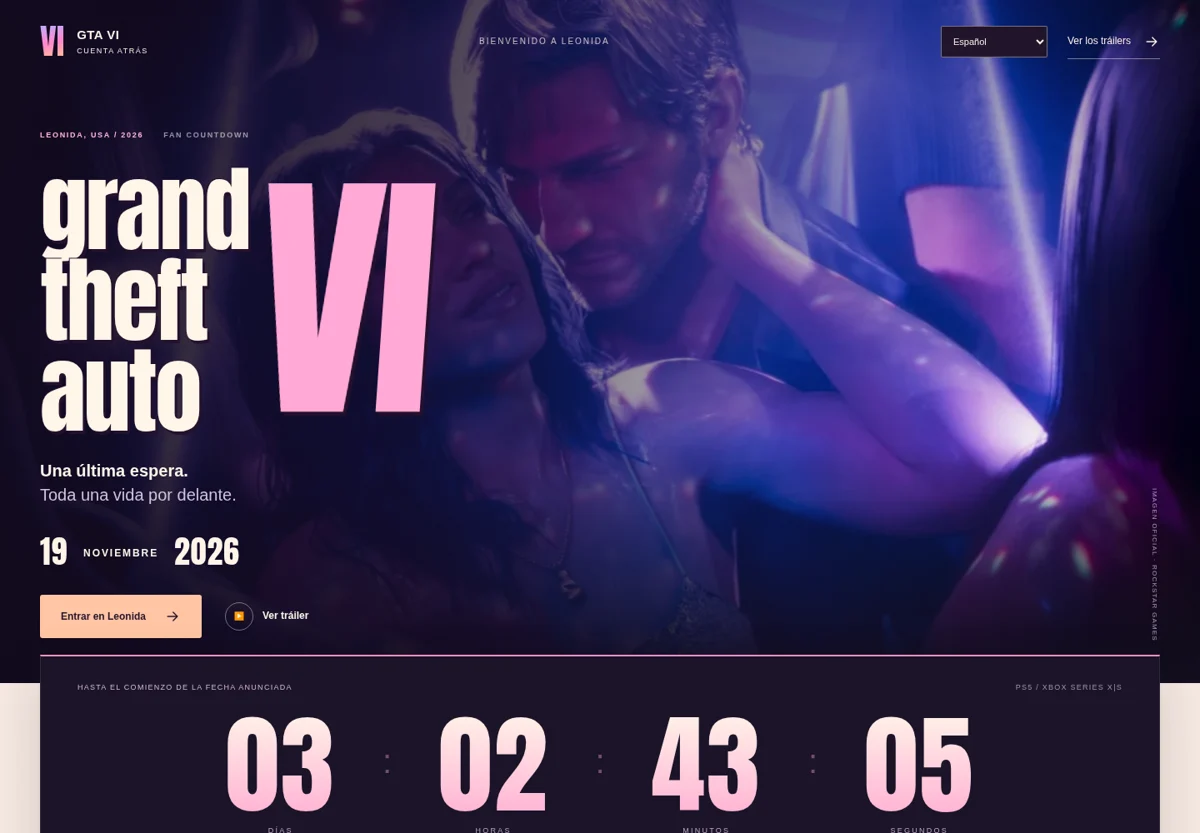
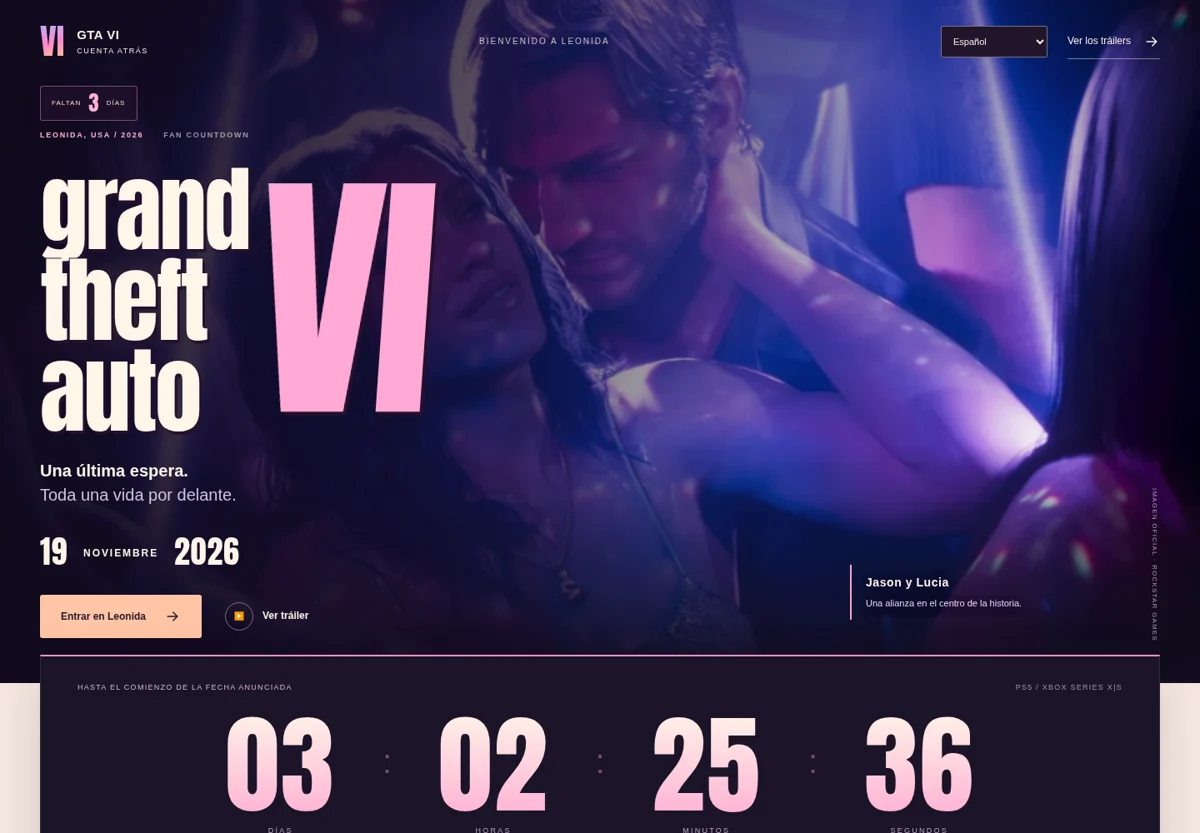
Show GTA scene context, first-screen countdown and wallpaper tools

diff --git a/index.html b/index.html
@@ -52,7 +52,7 @@
         <div class="featured-content"><p class="eyebrow"><time datetime="2026">2026</time> · SEGUIMIENTO DE ENVÍOS</p><h3 id="tramo-titulo">Tus paquetes,<br>en cada tramo.</h3><p>Tramo reúne tus envíos en un solo lugar. Consulta rápida, un espacio personal y una demo para explorar cada paso del recorrido.</p><ul class="tags" aria-label="Funciones de Tramo"><li>Seguimiento</li><li>Paquetes</li><li>Demo interactiva</li></ul><a class="button" href="https://tramo.nmclabs.dev/" target="_blank" rel="noopener noreferrer">Descubrir Tramo <span aria-hidden="true"><svg class="icon-arrow" viewBox="0 0 24 24" fill="none" aria-hidden="true"><path d="m6 18 12-12M6 6h12v12" stroke="currentColor" stroke-width="1.7" stroke-linecap="round" stroke-linejoin="round"/></svg></span></a><details class="project-context"><summary>El contexto del proyecto</summary><div><p><strong>La idea.</strong> Seguir paquetes de distintas compañías desde un único lugar.</p><p><strong>Mi trabajo.</strong> He desarrollado la consulta rápida, un panel personal y una demo con envíos ficticios para explorar la experiencia sin registro.</p></div></details></div>
         <a class="tramo-art" href="https://tramo.nmclabs.dev/" aria-label="Descubrir Tramo" target="_blank" rel="noopener noreferrer"><span class="tramo-art-top">DE UN LUGAR A OTRO. HASTA TI.</span><span class="tramo-wordmark">tramo<span>.</span></span><svg viewBox="0 0 420 100" fill="none" aria-hidden="true"><path d="M30 75C90 75 85 25 160 25S250 75 300 50 340 25 390 25" stroke="currentColor" stroke-width="2" stroke-dasharray="6 6"/><circle cx="30" cy="75" r="6" fill="currentColor"/><circle cx="160" cy="25" r="6" fill="currentColor"/><circle cx="300" cy="50" r="6" fill="currentColor"/><circle cx="390" cy="25" r="10" fill="#df6035"/></svg><span class="tramo-art-bottom">Menos pestañas. Más tranquilidad.<span aria-hidden="true"><svg class="icon-arrow" viewBox="0 0 24 24" fill="none" aria-hidden="true"><path d="m6 18 12-12M6 6h12v12" stroke="currentColor" stroke-width="1.7" stroke-linecap="round" stroke-linejoin="round"/></svg></span></span></a>
       </article>
-<section class="current-tools" aria-labelledby="current-tools-title"><header class="current-tools-heading"><div><p class="eyebrow">CREADAS PARA EL MOMENTO</p><h3 id="current-tools-title">Herramientas de actualidad.</h3></div><p>Guías interactivas, cuentas atrás y simulación.<br>Herramientas con sus fuentes enlazadas.</p></header><div class="current-tools-grid"><article class="current-tool"><a class="current-tool-image" href="https://gtacountdown.nmclabs.dev/" target="_blank" rel="noopener noreferrer" aria-label="Abrir GTA VI · Cuenta atrás en una pestaña nueva"><img src="proyectos/gtacountdown-card.webp" width="1200" height="833" alt="GTA VI: nueva portada con Jason y Lucia y cuenta atrás" loading="lazy"></a><div class="current-tool-content"><p class="eyebrow"><time datetime="2026">2026</time> · CUENTA ATRÁS</p><div class="current-tool-heading"><h4>GTA VI · Cuenta atrás</h4><span>19 de noviembre</span></div><p>Explora Leonida, guarda imágenes y prepara la llegada de GTA VI. Portada animada y seis idiomas para compartir la espera.</p><a class="current-tool-link" href="https://gtacountdown.nmclabs.dev/" target="_blank" rel="noopener noreferrer">Ver la cuenta atrás <svg class="icon-arrow" viewBox="0 0 24 24" fill="none" aria-hidden="true"><path d="m6 18 12-12M6 6h12v12" stroke="currentColor" stroke-width="1.7" stroke-linecap="round" stroke-linejoin="round"/></svg><span class="sr-only"> (pestaña nueva)</span></a></div></article><article class="current-tool"><a class="current-tool-image" href="https://29n.nmclabs.dev/" target="_blank" rel="noopener noreferrer" aria-label="Abrir 29N en una pestaña nueva"><img src="proyectos/29n-card.webp" width="1200" height="833" alt="29N: laboratorio D’Hondt con votos, barrera electoral y reparto paso a paso" loading="lazy"></a><div class="current-tool-content"><p class="eyebrow"><time datetime="2026">2026</time> · CALENDARIO ELECTORAL</p><div class="current-tool-heading"><h4>29N</h4><span>29 de noviembre</span></div><p>Pactómetro, referencia del 23J y laboratorio D’Hondt paso a paso. Compara escenarios y aprende cómo se reparten los escaños.</p><a class="current-tool-link" href="https://29n.nmclabs.dev/" target="_blank" rel="noopener noreferrer">Explorar el 29N <svg class="icon-arrow" viewBox="0 0 24 24" fill="none" aria-hidden="true"><path d="m6 18 12-12M6 6h12v12" stroke="currentColor" stroke-width="1.7" stroke-linecap="round" stroke-linejoin="round"/></svg><span class="sr-only"> (pestaña nueva)</span></a></div></article></div></section>
+<section class="current-tools" aria-labelledby="current-tools-title"><header class="current-tools-heading"><div><p class="eyebrow">CREADAS PARA EL MOMENTO</p><h3 id="current-tools-title">Herramientas de actualidad.</h3></div><p>Guías interactivas, cuentas atrás y simulación.<br>Herramientas con sus fuentes enlazadas.</p></header><div class="current-tools-grid"><article class="current-tool"><a class="current-tool-image" href="https://gtacountdown.nmclabs.dev/" target="_blank" rel="noopener noreferrer" aria-label="Abrir GTA VI · Cuenta atrás en una pestaña nueva"><img src="proyectos/gtacountdown-card.webp" width="1200" height="833" alt="GTA VI: nueva portada con Jason y Lucia y cuenta atrás" loading="lazy"></a><div class="current-tool-content"><p class="eyebrow"><time datetime="2026">2026</time> · CUENTA ATRÁS</p><div class="current-tool-heading"><h4>GTA VI · Cuenta atrás</h4><span>19 de noviembre</span></div><p>La espera de GTA VI con 30 escenas, fondos de pantalla y seis idiomas. Explora Leonida y guarda tus favoritas.</p><a class="current-tool-link" href="https://gtacountdown.nmclabs.dev/" target="_blank" rel="noopener noreferrer">Ver la cuenta atrás <svg class="icon-arrow" viewBox="0 0 24 24" fill="none" aria-hidden="true"><path d="m6 18 12-12M6 6h12v12" stroke="currentColor" stroke-width="1.7" stroke-linecap="round" stroke-linejoin="round"/></svg><span class="sr-only"> (pestaña nueva)</span></a></div></article><article class="current-tool"><a class="current-tool-image" href="https://29n.nmclabs.dev/" target="_blank" rel="noopener noreferrer" aria-label="Abrir 29N en una pestaña nueva"><img src="proyectos/29n-card.webp" width="1200" height="833" alt="29N: laboratorio D’Hondt con votos, barrera electoral y reparto paso a paso" loading="lazy"></a><div class="current-tool-content"><p class="eyebrow"><time datetime="2026">2026</time> · CALENDARIO ELECTORAL</p><div class="current-tool-heading"><h4>29N</h4><span>29 de noviembre</span></div><p>Pactómetro, referencia del 23J y laboratorio D’Hondt paso a paso. Compara escenarios y aprende cómo se reparten los escaños.</p><a class="current-tool-link" href="https://29n.nmclabs.dev/" target="_blank" rel="noopener noreferrer">Explorar el 29N <svg class="icon-arrow" viewBox="0 0 24 24" fill="none" aria-hidden="true"><path d="m6 18 12-12M6 6h12v12" stroke="currentColor" stroke-width="1.7" stroke-linecap="round" stroke-linejoin="round"/></svg><span class="sr-only"> (pestaña nueva)</span></a></div></article></div></section>
       <div class="archive-heading"><h3>Donde empezó todo</h3><p>Mis primeras webs, con su año de origen y nuevas formas de revisitarlas.</p></div>
       <div class="project-grid">
 <article class="project-lineage" aria-label="Tinyspace: original y rediseño del mismo proyecto"><header class="lineage-heading"><div><h3>Tinyspace</h3><p>Del primer catálogo de mobiliario a una tienda que permite probar sus muebles a escala.</p></div><span class="lineage-years"><time datetime="2022">2022</time><span aria-hidden="true">→</span><time datetime="2026">2026</time></span></header><div class="lineage-versions"><section class="lineage-original"><p class="version-badge">EL ORIGINAL · 2022</p><a class="lineage-image" href="https://tinyspace.nmclabs.dev/" target="_blank" rel="noopener noreferrer" aria-label="Visitar Tinyspace original (pestaña nueva)"><img src="proyectos/tinyspace-original-card.webp" width="1440" height="1000" alt="Tinyspace: versión original" loading="lazy"></a><h4>El primer catálogo.</h4><p>Un concepto de mueblería para practicar HTML, CSS, imágenes y composición.</p><a class="lineage-action" href="https://tinyspace.nmclabs.dev/" target="_blank" rel="noopener noreferrer">Visitar original <svg class="icon-arrow" viewBox="0 0 24 24" fill="none" aria-hidden="true"><path d="m6 18 12-12M6 6h12v12" stroke="currentColor" stroke-width="1.7" stroke-linecap="round" stroke-linejoin="round"/></svg></a></section><section class="lineage-new"><p class="version-badge">EL REDISEÑO · 2026 · NMC LABS</p><a class="lineage-image" href="https://tiny.nmclabs.dev/" target="_blank" rel="noopener noreferrer" aria-label="Explorar Tinyspace rediseñado (pestaña nueva)"><img src="proyectos/tinyspace-redesign-card.webp" width="1440" height="1000" alt="Tinyspace: nueva versión de NMC Labs" loading="lazy"></a><h4>Tienda y plano a medida.</h4><p>Treinta productos, una habitación editable y propuestas para empresas.</p><a class="lineage-action primary" href="https://tiny.nmclabs.dev/" target="_blank" rel="noopener noreferrer">Explorar rediseño <svg class="icon-arrow" viewBox="0 0 24 24" fill="none" aria-hidden="true"><path d="m6 18 12-12M6 6h12v12" stroke="currentColor" stroke-width="1.7" stroke-linecap="round" stroke-linejoin="round"/></svg></a></section></div><footer class="lineage-footer"><span>Un mismo proyecto. Dos etapas.</span><a href="proyectos/tinyspace.html">Ver su historia y evolución <span aria-hidden="true">→</span></a></footer></article>
